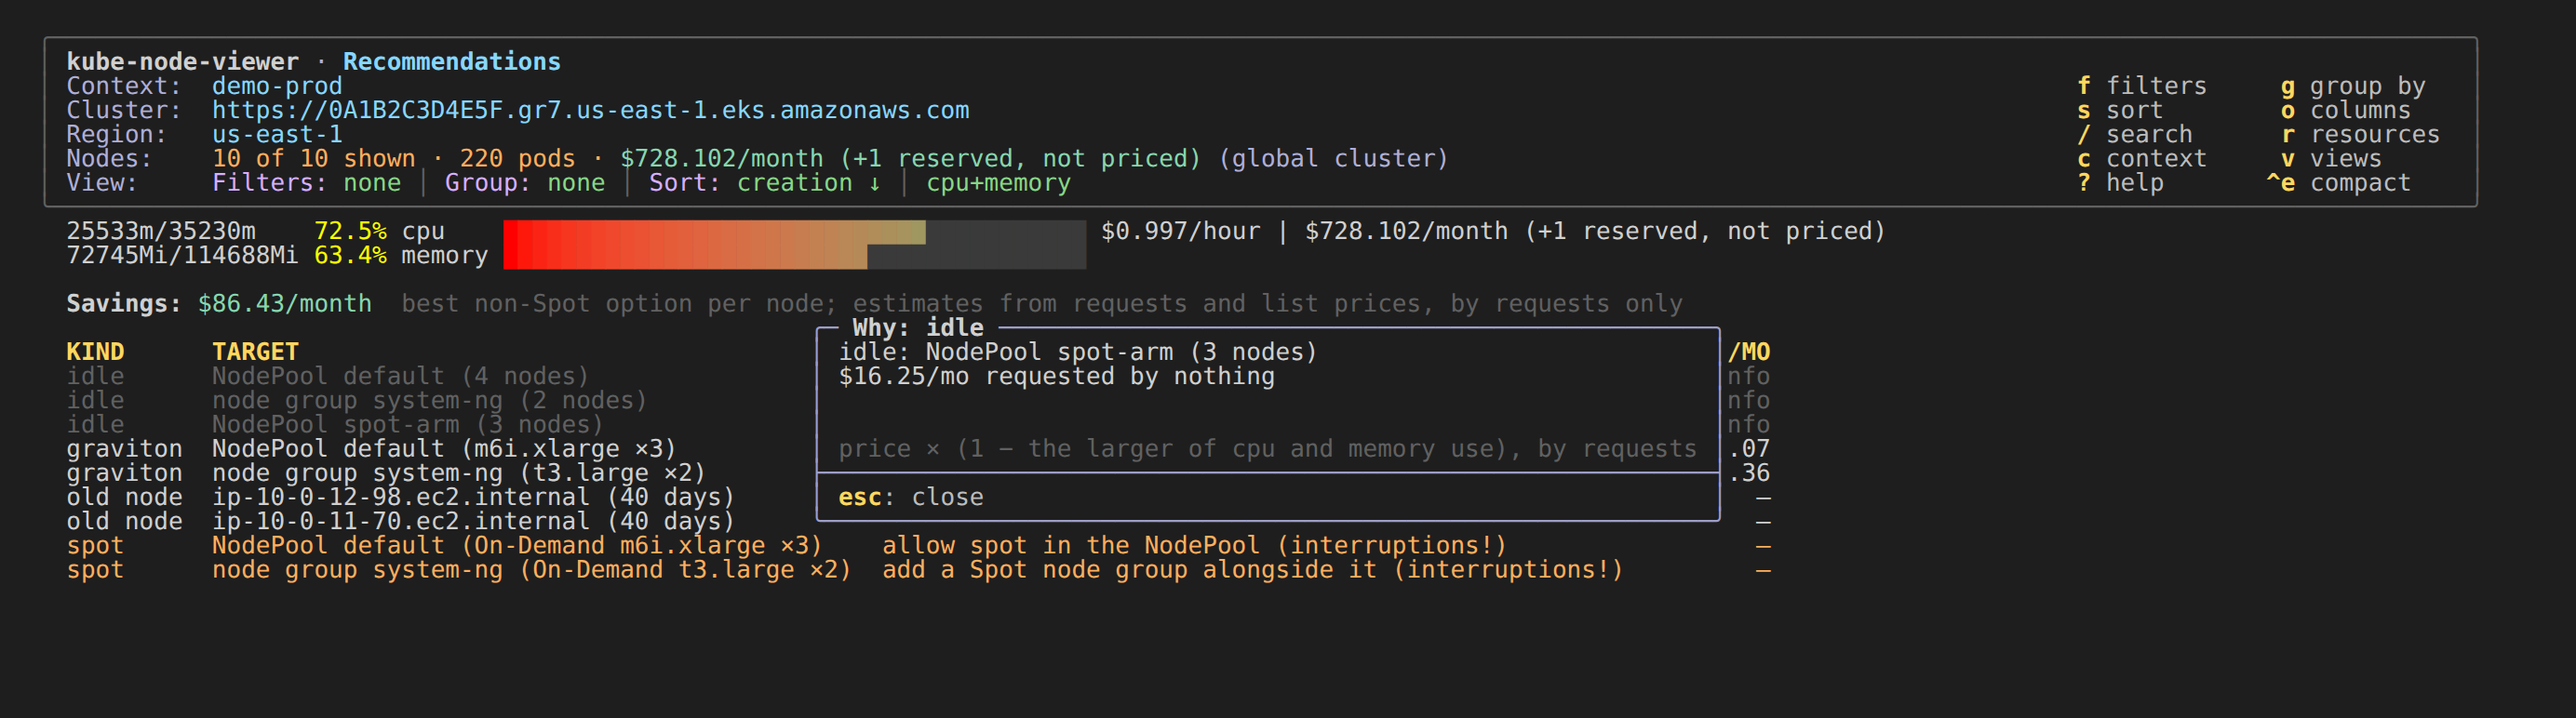
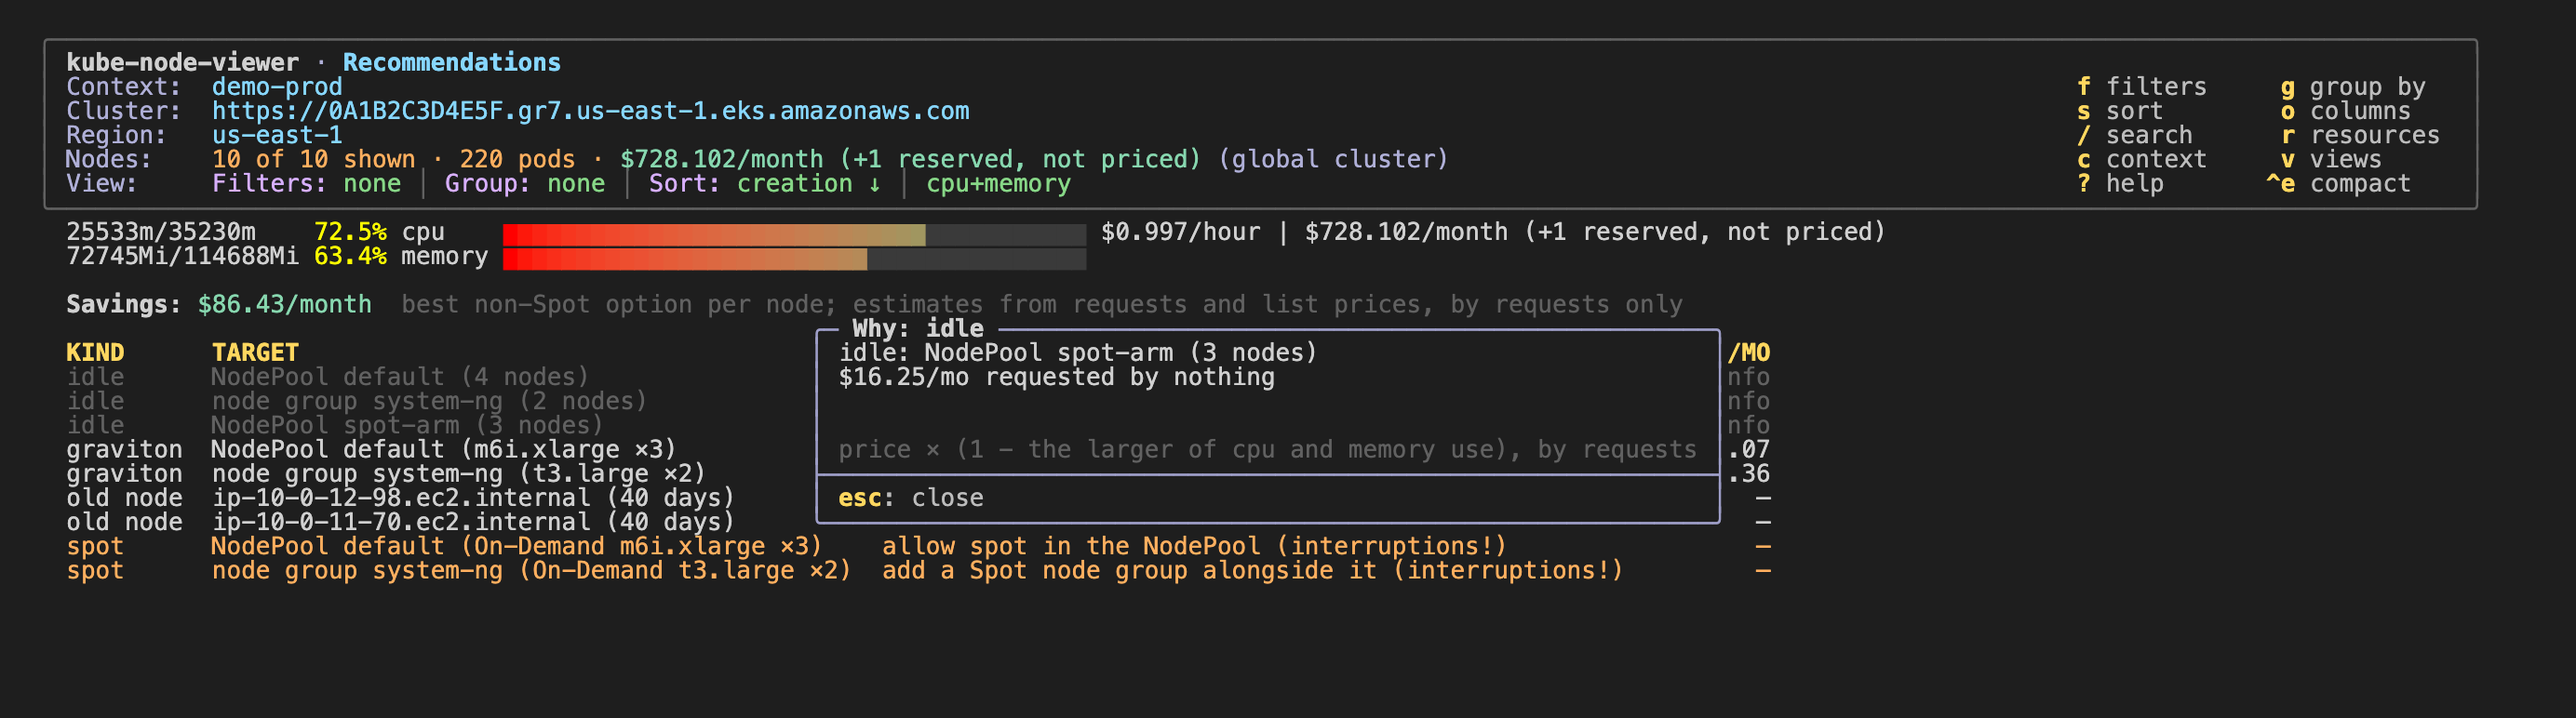
docs: regenerate the README images and the demo GIF
scripts/screenshots.sh with the current fixtures: the demo IPs in
192.0.2.0/24 and the group-focus keys (space folds, enter focuses a
group). Also records the first attested release (v0.14.0) and the
release-snapshot skip on a PR under release-provenance R1 and R5, and
removes the three TODO items.

diff --git a/TODO.md b/TODO.md
@@ -48,24 +48,11 @@ memory. Listed by impact.
       error red for 2 minutes after the retry succeeded (`issueWindow`,
       `pkg/model/header.go`). _Why:_ a transient rate limit looks like a
       live failure.
-- [ ] **Check the first attested release** (0.14.0): the release run's
-      `check` job, then `gh attestation verify` (README "Verifying a
-      release") on a downloaded archive and on an SBOM; record it under
-      R1 of [release-provenance](specs/release-provenance/requirements.md),
-      and under R5 the next PR's `release-snapshot` "no release files
-      changed" pass.
-      _Why:_ attestation can only be proven on a published release.
-- [ ] Regenerate `.static/demo.gif` with `scripts/screenshots.sh`: its
-      captions now fold with `space` and show `enter` focusing a group
-      ([group-focus](specs/group-focus/tasks.md) T4). _Why:_ the GIF still
-      shows `enter` folding; the script needs ffmpeg, missing on the
-      machine that made the change.
-- [ ] Regenerate the README images (`scripts/screenshots.sh`): the demo
-      nodes' internal IPs moved to 192.0.2.0/24 for the golden screens,
-      and `.static/` still shows the old ones. The node names stay
-      `ip-10-0-…` (the allowed example names in `scripts/checks/content.sh`),
-      so a node's name no longer matches its IP; rename them only together
-      with that allowlist.
+- [ ] Demo node names no longer match their IPs: the screenshot and golden
+      fixtures name nodes `ip-10-0-…` (the example names allowed by
+      `scripts/checks/content.sh`) while their internal IPs are in
+      192.0.2.0/24. _Why:_ cosmetic in the README images; rename the nodes
+      only together with that allowlist.
 - [ ] `pkg/model/node.go` imports `aws-sdk-go-v2/service/ec2/types`, which
       crosses the "AWS SDK only in `pkg/aws`" rule (upstream code, there at
       the import). _Why:_ the model should not depend on a cloud SDK.

diff --git a/specs/release-provenance/requirements.md b/specs/release-provenance/requirements.md
@@ -69,8 +69,18 @@ accepts for one of those two refs.
 
 _Test: manual — after the first release with this change, `gh attestation verify` on a downloaded archive and SBOM, and the release's `check` job (`scripts/release-check.sh --strict`)._
 
-- [ ] after the first release with this change, the command above
+- [x] after the first release with this change, the command above
       succeeds for an archive and for an SBOM downloaded from it
+
+  > **Verified 2026-11-05.** v0.14.0 (released 2026-11-05 by a manual
+  > dispatch of `release.yaml` from `main`): its `check` job passed, and
+  > `gh attestation verify` with `--cert-identity
+  > …/release.yaml@refs/heads/main --deny-self-hosted-runners` succeeded
+  > for `kube-node-viewer_Darwin_all.tar.gz` and
+  > `kube-node-viewer_Linux_x86_64.tar.gz.sbom.json` (predicate
+  > `https://slsa.dev/provenance/v1`, workflow `.github/workflows/release.yaml`
+  > at `refs/heads/main`); the same command with `@refs/heads/nope` failed;
+  > both files match the checksum file.
 
 **R2** WHEN `scripts/release-check.sh` checks a release THEN it SHALL
 verify the provenance of the archive for this machine; a release at
@@ -122,8 +132,12 @@ job can wait on it for every PR.
 
 _Test: manual — the `release-snapshot` check on a PR that changes neither file._
 
-- [ ] a PR without release changes shows `release-snapshot` passing with
+- [x] a PR without release changes shows `release-snapshot` passing with
       the "no release files changed" message
+
+  > **Verified 2026-11-05.** PR #53 (no release file changed), CI run
+  > 42080271326: `release-snapshot` passed in 6 s and printed
+  > "no release files changed: nothing to build".
 
 **R6** WHEN a tag that does not start with `v` is pushed THEN the release
 workflow SHALL NOT start; a `v*` tag pushed by hand still releases that

diff --git a/specs/release-provenance/tasks.md b/specs/release-provenance/tasks.md
@@ -49,9 +49,10 @@
 
 ## Deferred
 
+> **Corrected 2026-11-05.** The R1 and R5 checks were done (dated notes
+> under R1 and R5 in requirements.md) and their rows removed.
+
 | Task | Promotion trigger |
 |------|-------------------|
-| R5: `release-snapshot` passes at once ("no release files changed") on a PR that changes neither file | the next such PR after the merge |
-| After the first release (0.14.0): its `check` job green, and `gh attestation verify` (README command) on a downloaded archive and on an SBOM; dated note under R1, tick its box | the first release after the merge (`TODO.md` Follow-ups) |
 | `release-snapshot` as a required check in the `main` ruleset | the owner changes the ruleset |
 | SLSA level 3 builder | a consumer asks for level 3 |

diff --git a/specs/group-focus/tasks.md b/specs/group-focus/tasks.md
@@ -29,6 +29,10 @@
 > enter), each failing at least one test. `esc: back` moved to the front of
 > the key line (R2 correction). `.static/demo.gif` is not regenerated
 > (no ffmpeg); a TODO.md item tracks it. T5 (cluster run) is open.
+>
+> **Corrected 2026-11-05.** `.static/demo.gif` was regenerated with
+> `scripts/screenshots.sh`; its captions fold with `space` and show `enter`
+> focusing a group. The TODO.md item is removed.
 
 > **Verified 2026-11-04.** Ran the binary (`--group-by karpenter.sh/nodepool
 > --node-sort name=asc`) in a real terminal on a local kind cluster: three
